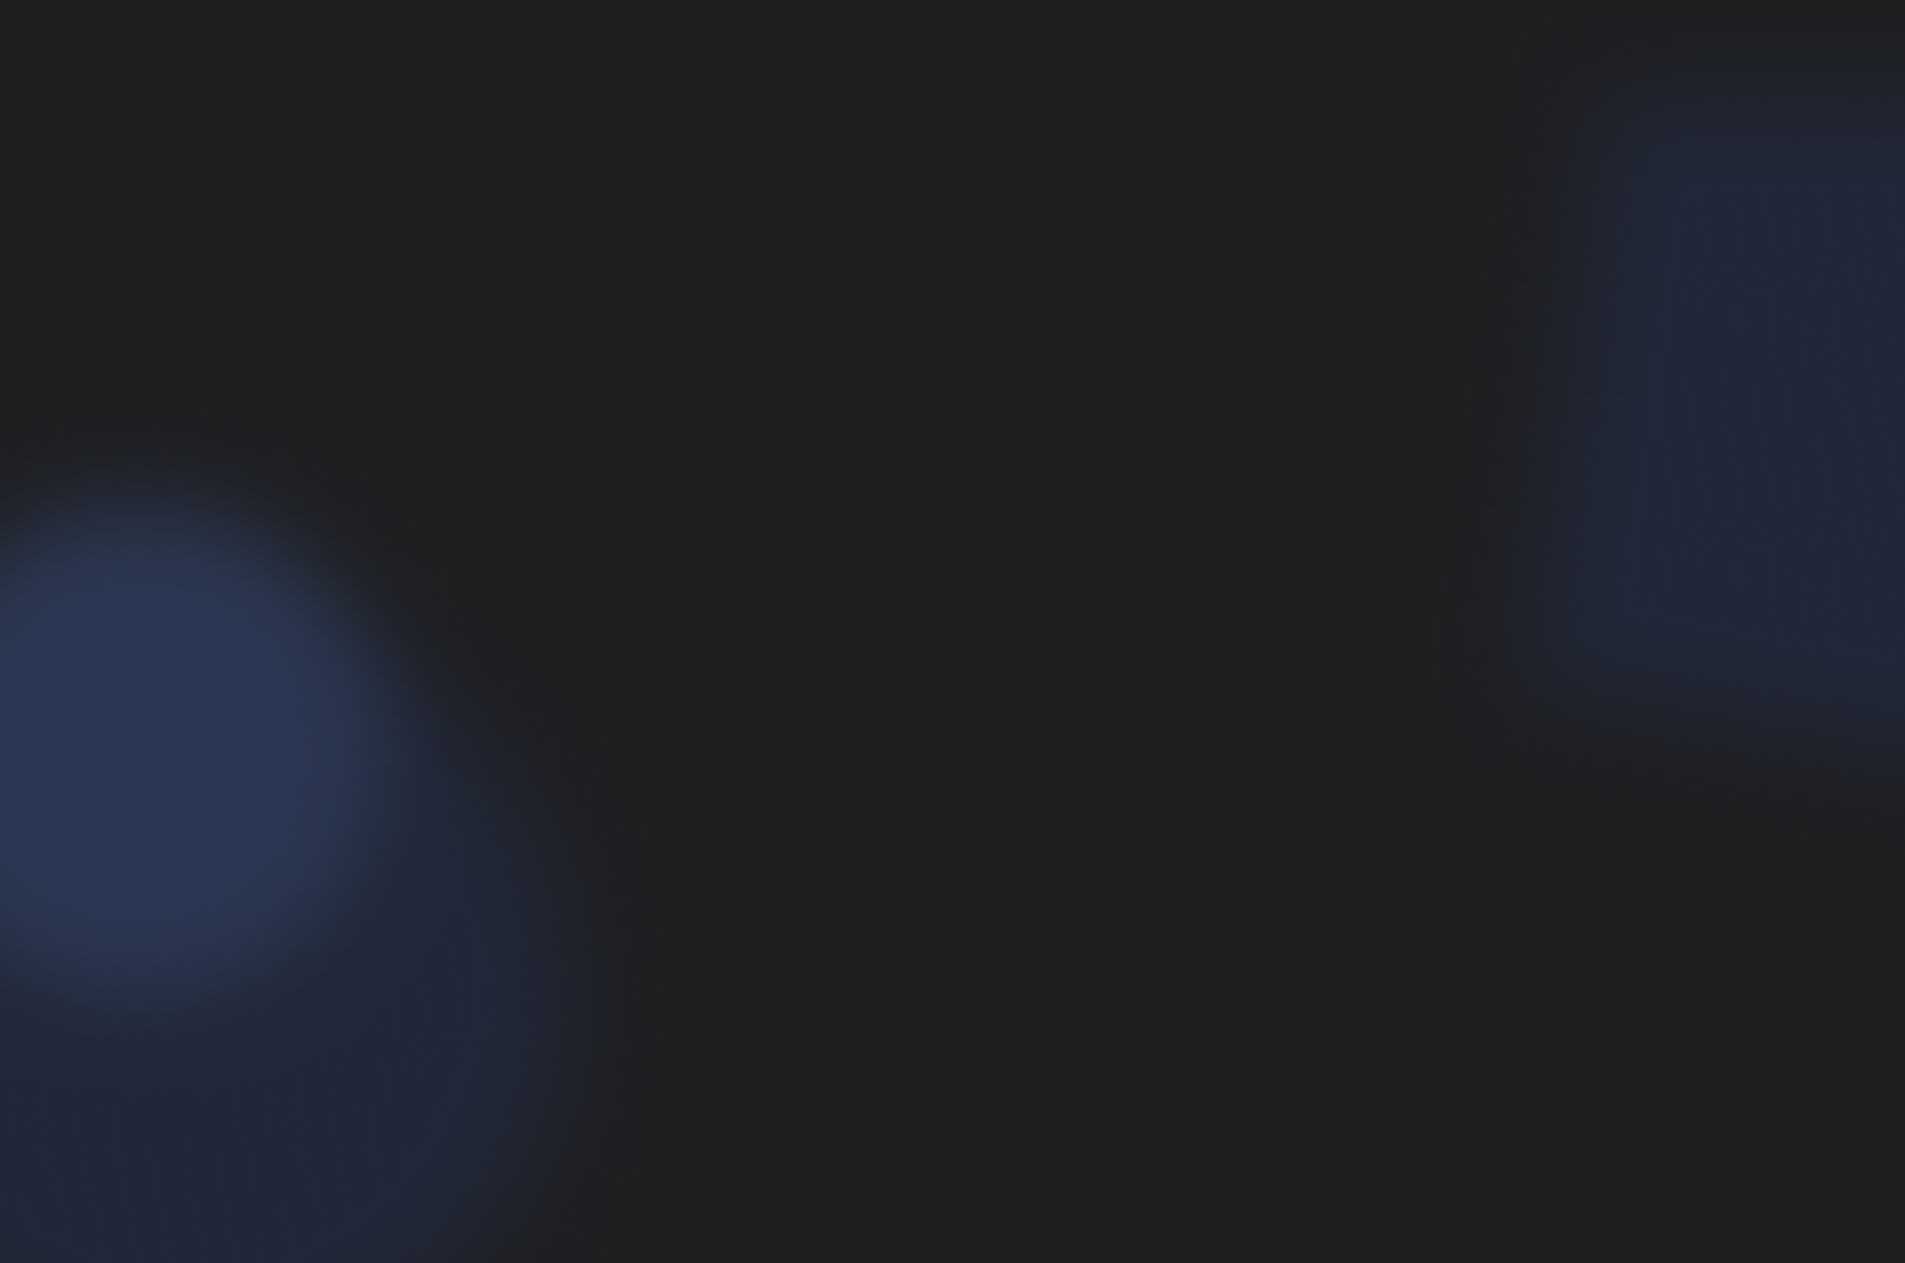
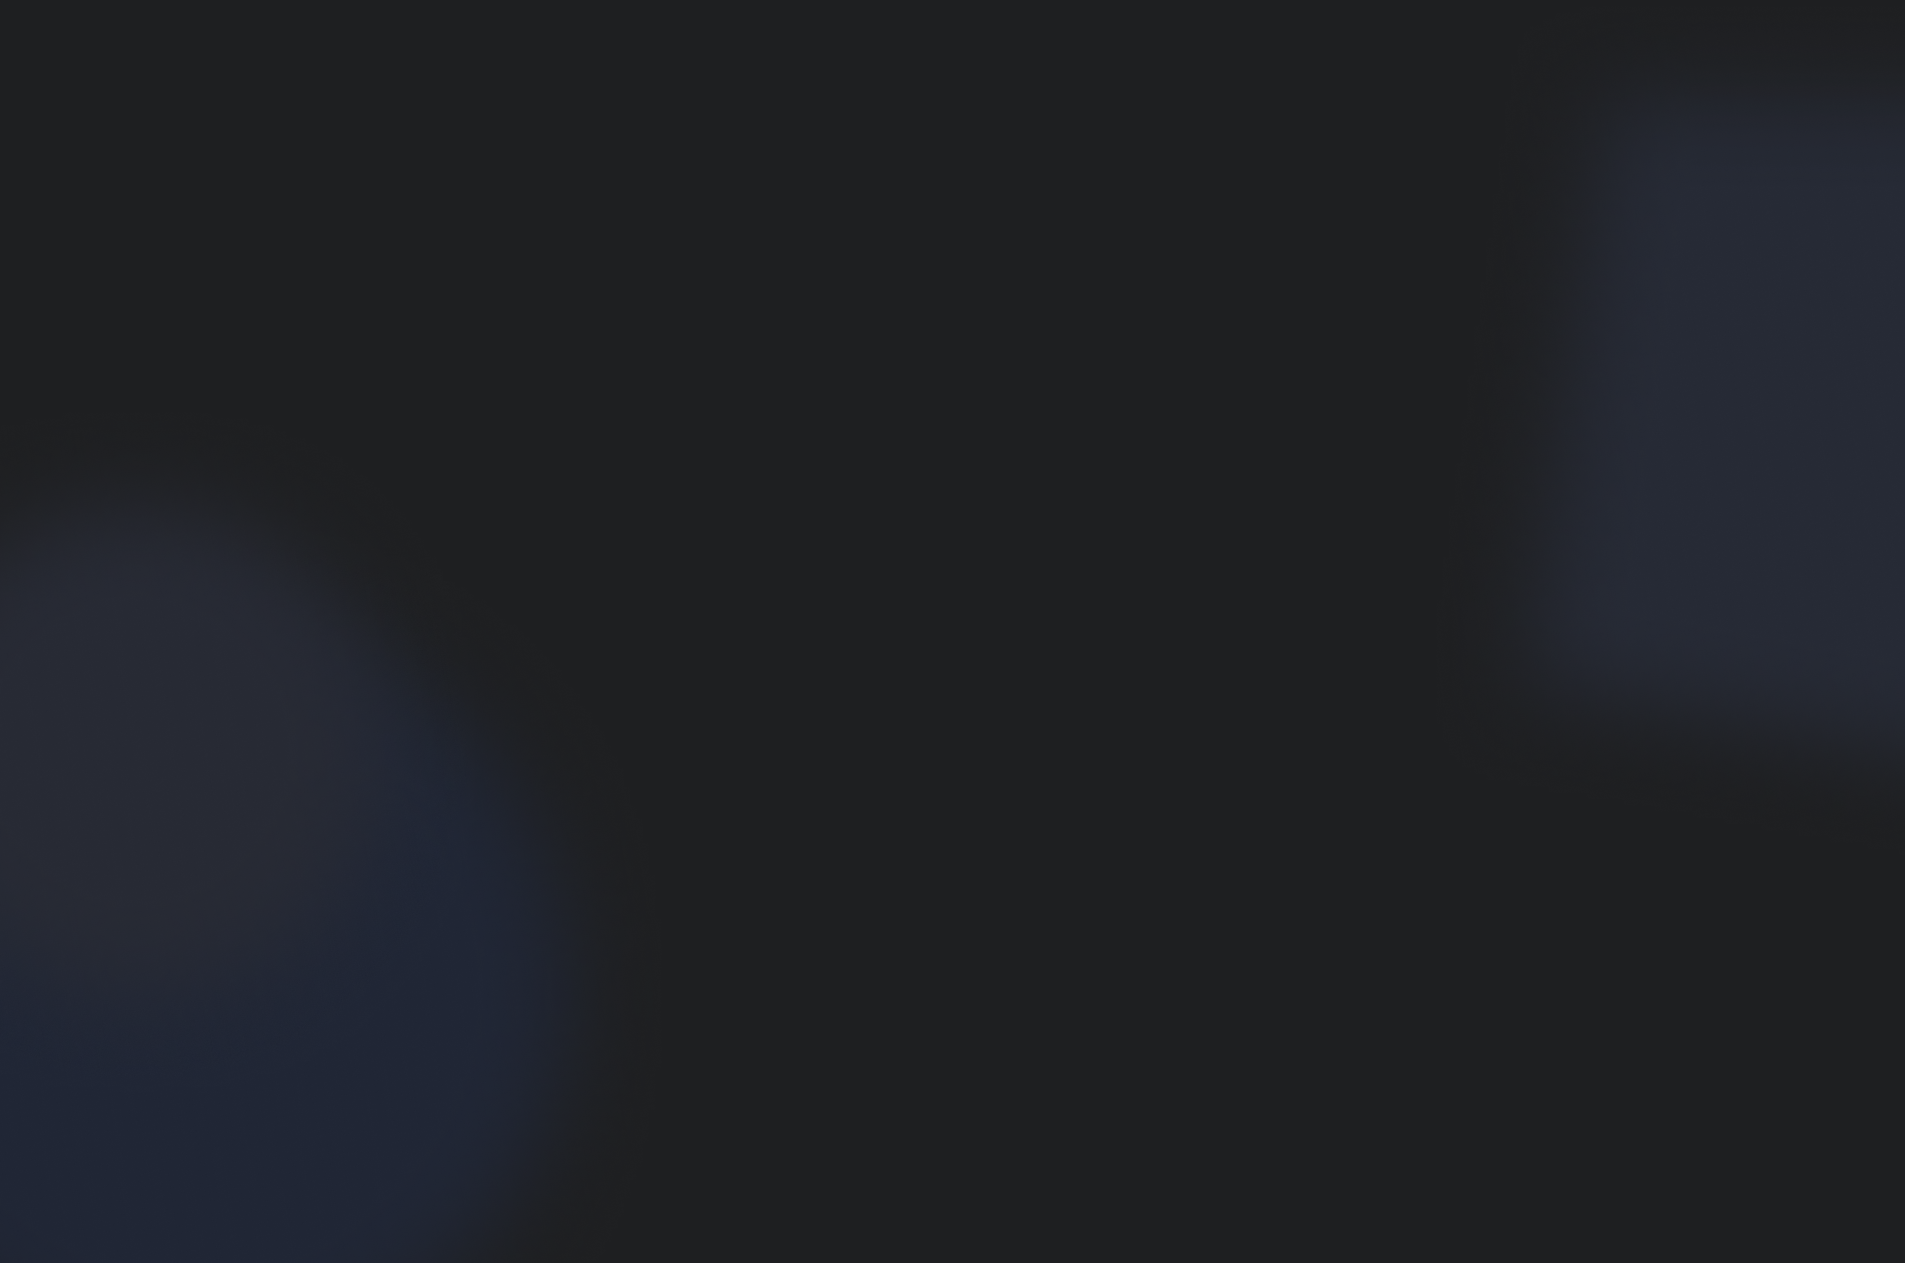
다크모드 작업

Changed region(s): [[0.0, 0.4323, 0.1858, 0.772]]

diff --git a/css/common.css b/css/common.css
@@ -249,16 +249,19 @@ nav {
 
 
 .mode-container {
-  width: 108px;
+  width: 100px;
   height: 57px;
   border-radius: 30px;
   padding: 6px;
-  background-color: var(--color-box);
   display: flex;
   align-items: center;
   justify-content: space-between;
+  background-color: var(--color-box);
+  border: 1px solid var(--color-btn-hover);
+  position: relative;
+  z-index: 1;
 }
-.mode-container div {
+.mode-container button {
   height: 100%;
   aspect-ratio: 1 / 1;
   border-radius: 50%;
@@ -267,14 +270,77 @@ nav {
   justify-content: center;
   cursor: pointer;
 }
-.mode-container div:hover {
-  border: 1px solid var(--color-border);
-  background-color: var(--color-box-hover);
-}
-.mode-container div.active {
-  border: 1px solid var(--color-border);
+
+.mode-container button.active {
+  /* background-color: #aaa; */
 }
 
-.mode-container div span {
+.mode-container button span {
   color: var(--colot-font-basic);
+}
+
+
+
+
+
+
+.mode-container::after {
+  display: block;
+  content: '';
+  width: 44px;
+  height: 44px;
+  border-radius: 30px;
+
+  position: absolute;
+  z-index: -1;
+  top: 50%;
+  transform: translateY(-50%);
+
+  background-color: var(--color-box-hover);
+}
+
+
+
+/* 라이트, 다크 모드 애니메이션 */
+.mode-container.change-dark::after {
+  animation:
+  mode-change-dark .5s linear alternate forwards;
+  left: auto;
+}
+.mode-container.change-light::after {
+  animation:
+  mode-change-light .5s linear alternate forwards;
+}
+
+@keyframes mode-change-dark {
+  0% {
+    width: 44px;
+    height: 44px;
+    border-radius: 30px;
+    left: 6px;
+  }
+  50% {
+    width: 86px;
+  }
+  100% {
+    width: 44px;
+    right: 6px;
+  }
+}
+
+
+@keyframes mode-change-light {
+  0% {
+    width: 44px;
+    height: 44px;
+    border-radius: 30px;
+    right: 6px;
+  }
+  50% {
+    width: 86px;
+  }
+  100% {
+    width: 44px;
+    left: 6px;
+  }
 }

diff --git a/js/common.js b/js/common.js
@@ -32,14 +32,30 @@ function popupRemove(){
 
 
 
+// 라이트, 다크 모드
+const modeArea = document.querySelector('.mode-container')
+const lightModeBtn = document.querySelector('.light-mode')
+const darkModeBtn = document.querySelector('.dark-mode')
 
-const $checkbox = document.querySelector('.check');
+// 기본 라이트 모드
 document.documentElement.setAttribute('color-theme', 'light');
 
-$checkbox.addEventListener('click', e=> {
-  if (e.target.checked) {
-    document.documentElement.setAttribute('color-theme', 'dark');
-  } else {
-    document.documentElement.setAttribute('color-theme', 'light');
-  }
-});
+
+function lightMode(){
+  lightModeBtn.classList.add('active')
+  darkModeBtn.classList.remove('active')
+  modeArea.classList.remove('change-dark')
+  modeArea.classList.add('change-light')
+
+  document.documentElement.setAttribute('color-theme', 'light');
+}
+function darkMode(){
+  darkModeBtn.classList.add('active')
+  lightModeBtn.classList.remove('active')
+  modeArea.classList.add('change-dark')
+  modeArea.classList.remove('change-light')
+  document.documentElement.setAttribute('color-theme', 'dark');
+}
+
+lightModeBtn.addEventListener('click', lightMode)
+darkModeBtn.addEventListener('click', darkMode)

diff --git a/js/aside.js b/js/aside.js
@@ -88,6 +88,8 @@ setInterval(getClock, 1000)
 
 const API_KEY = "a758b2bfe96799600a77b987a34a2210";
 
+
+
 function onGeoOk(position){
   const lat = position.coords.latitude;
   const log = position.coords.longitude;
@@ -96,10 +98,22 @@ function onGeoOk(position){
     const weather = document.querySelector('.weather-icon')
     const city = document.querySelector('.weather-info span:first-child')
     const temp = document.querySelector('.weather-info span:last-child')
+    let weatherCondition = data.weather[0].main
 
-    weather.innerHTML = `<span>${data.weather[0].description}</span>`;
+    
     city.innerText = data.name;
     temp.innerText = `${Math.round(data.main.temp)}°C`
+
+
+
+    // 날씨 아이콘 - 수정 예정
+    if(weatherCondition === 'Clouds'){
+      weather.innerHTML = `<span class="material-symbols-outlined">cloudy</span>`;
+    } else if (weatherCondition === 'Sunny') {
+      weather.innerHTML = `<span class="material-symbols-outlined">sunny</span>`;
+    } else if (weatherCondition === 'Rain') {
+      weather.innerHTML = `<span class="material-symbols-outlined">rainy</span>`;
+    }
 
   }))
 }

diff --git a/index.html b/index.html
@@ -53,15 +53,13 @@
           </li>
         </ul>
       </nav>
-      <input class="check" type="checkbox" name="" id="">
-
       <div class="mode-container">
-        <div class="light-mode active">
+        <button class="light-mode active">
           <span class="material-symbols-outlined">light_mode</span>
-        </div>
-        <div class="dark-mode">
+        </button>
+        <button class="dark-mode">
           <span class="material-symbols-outlined">dark_mode</span>
-        </div>
+        </button>
       </div>
       
     </header>

diff --git a/css/aside.css b/css/aside.css
@@ -159,7 +159,7 @@ aside > div {
   height: 70px;
 }
 .weather-icon span {
-  font-size: 20px;
+  font-size: 40px;
   border-right: 1px solid;
   width: 100%;
   height: 100%;
@@ -181,5 +181,4 @@ aside > div {
 .weather-info span:last-child {
   font-size: 30px;
   font-weight: bold;
-
 }
